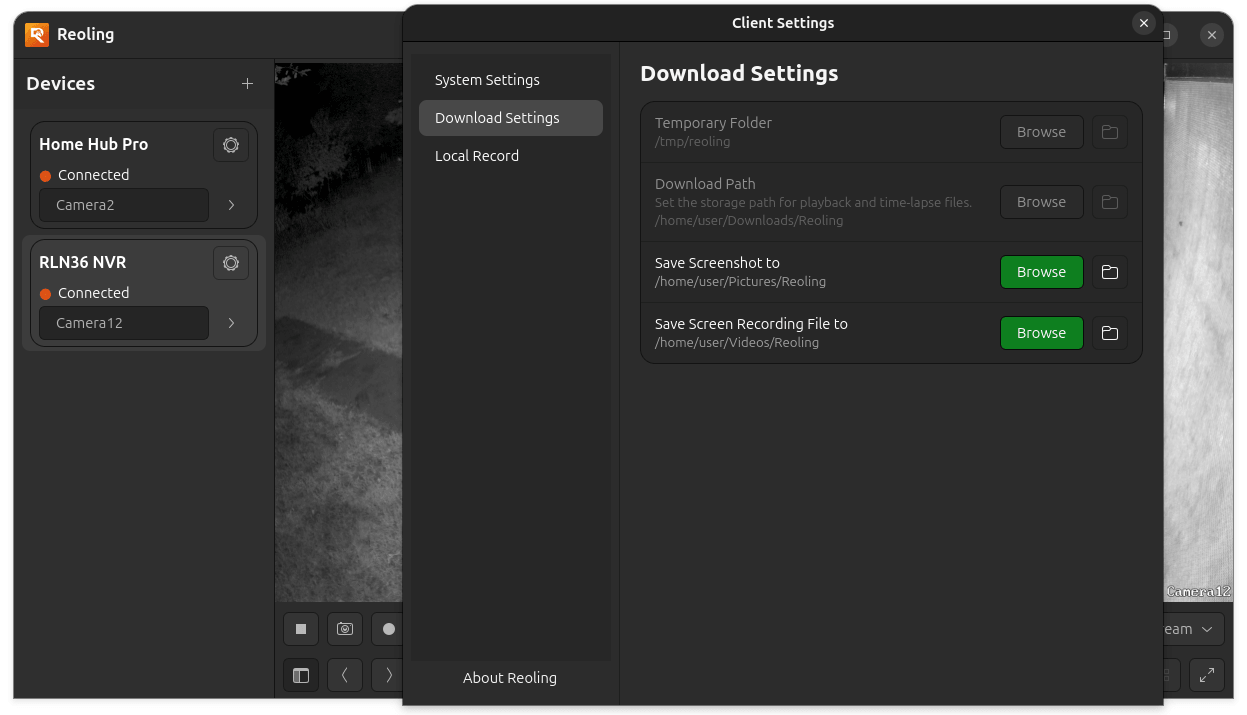
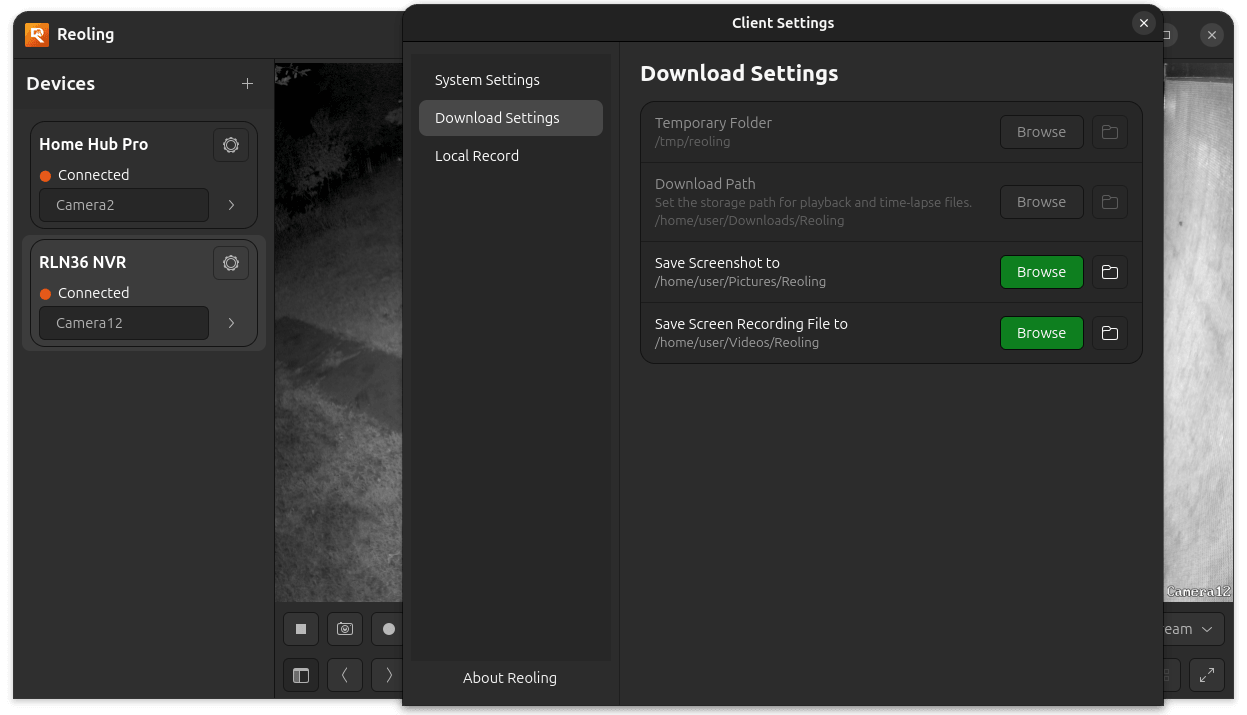
Replace the Download Settings screenshot with one without a background; version 0.1.21

Changed region(s): [[0.3047, 0.9846, 0.9447, 1.0], [0.6095, 0.3077, 0.6399, 0.3385]]

diff --git a/README.md b/README.md
@@ -24,7 +24,7 @@ More on <https://reoling.eu>.
 
 ## Status
 
-Version **0.1.20**, early development. Login and live video work end to end
+Version **0.1.21**, early development. Login and live video work end to end
 against real hardware (a Home Hub, an NVR and their cameras), over UDP/P2P
 only: Reoling races the device's local, NAT-mapped and relay addresses at
 the same time and uses whichever answers first, as the official client does.
@@ -90,6 +90,8 @@ the same time and uses whichever answers first, as the official client does.
 
 **Version history**
 
+- 0.1.21 — the Download Settings screenshot is replaced by one without the
+  background behind the window.
 - 0.1.20 — the official website, <https://reoling.eu>, is linked from the
   README (with its screenshots, now kept in `docs/screenshots`), the About
   window and the package metadata.
